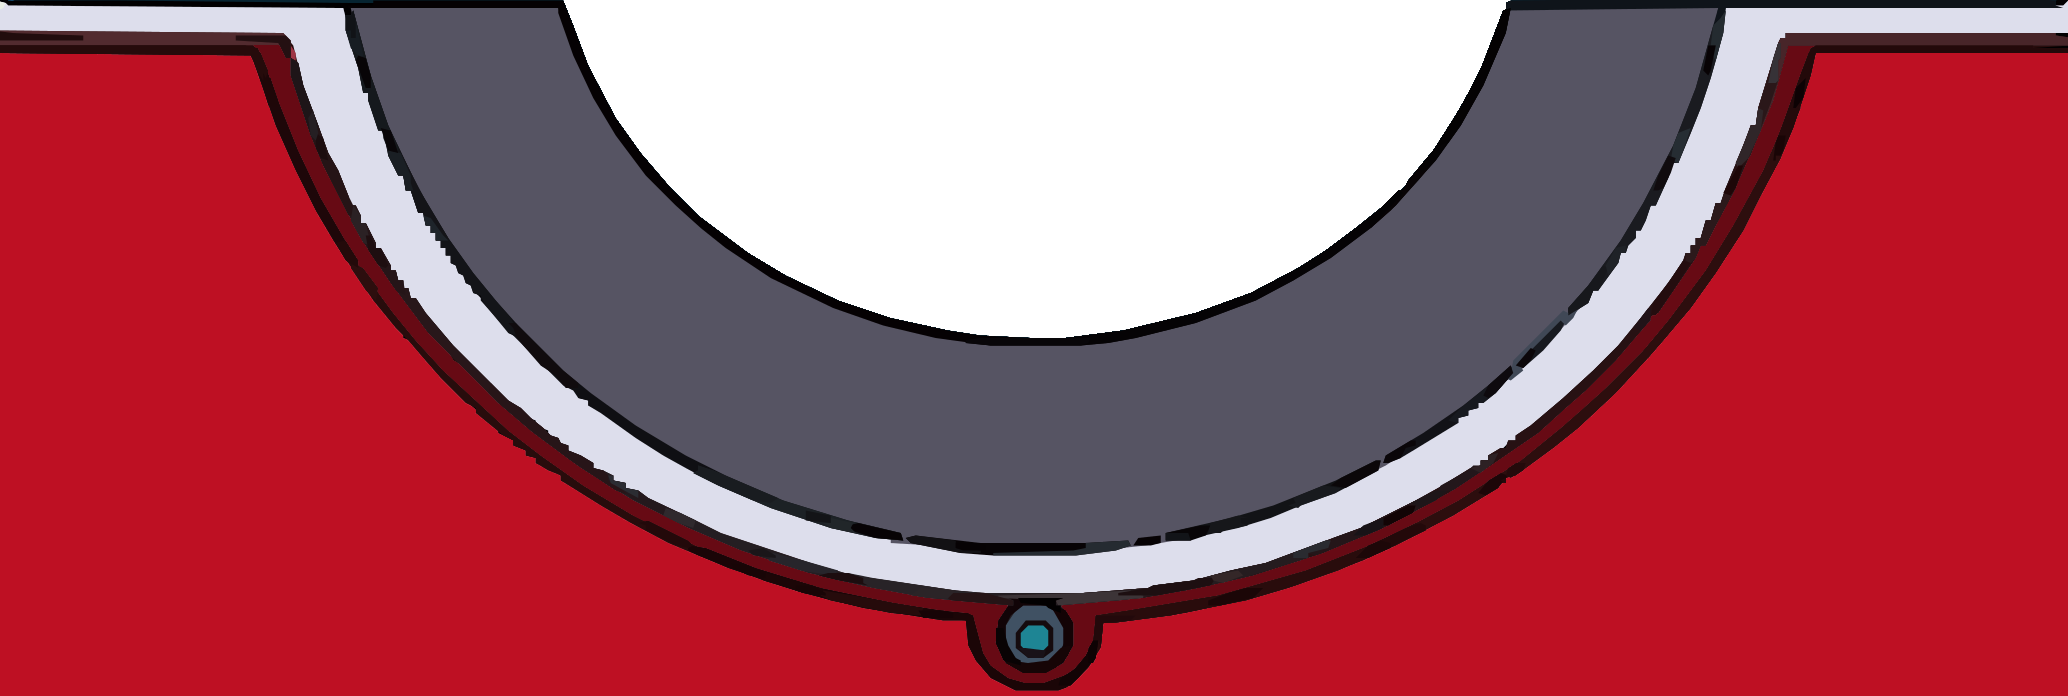
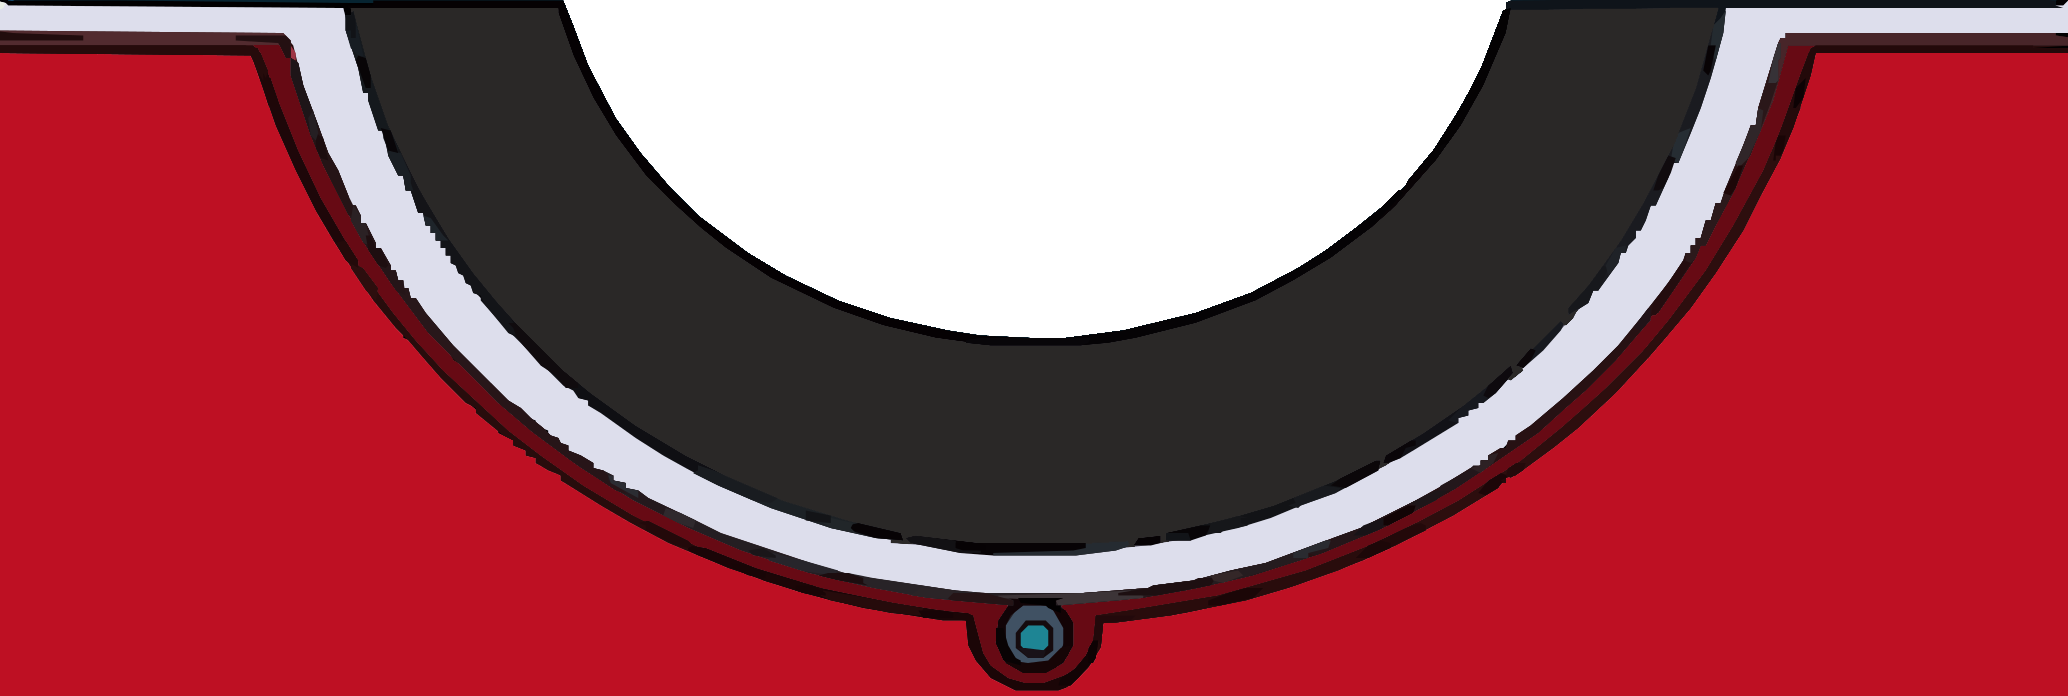
Estilo

Changed region(s): [[0.1547, 0.0, 0.8356, 0.7845]]

diff --git a/src/App.css b/src/App.css
@@ -37,7 +37,7 @@
   width: 100vw;
 }
 .pokeball {
-  width: 42vw;
+  width: 45vw;
   height: auto;
   position: absolute;
   z-index: 2;
@@ -112,7 +112,7 @@
 .spacer-top,
 .spacer-bottom {
   flex: 1; /* Ocupa el espacio disponible entre los elementos */
-  background-color: rgb(196, 12, 36); /* Color del espacio */
+  background-color: rgb(190, 16, 35); /* Color del espacio */
   height: 100%; /* Ajusta la altura según sea necesario */
 }
 .bottom {
